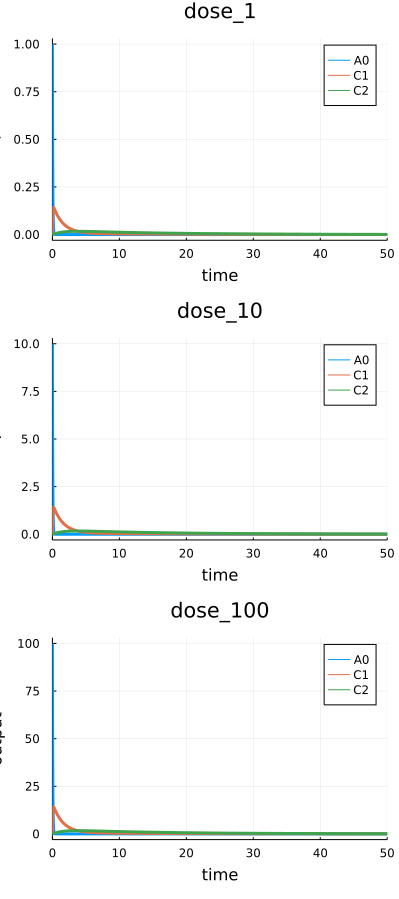
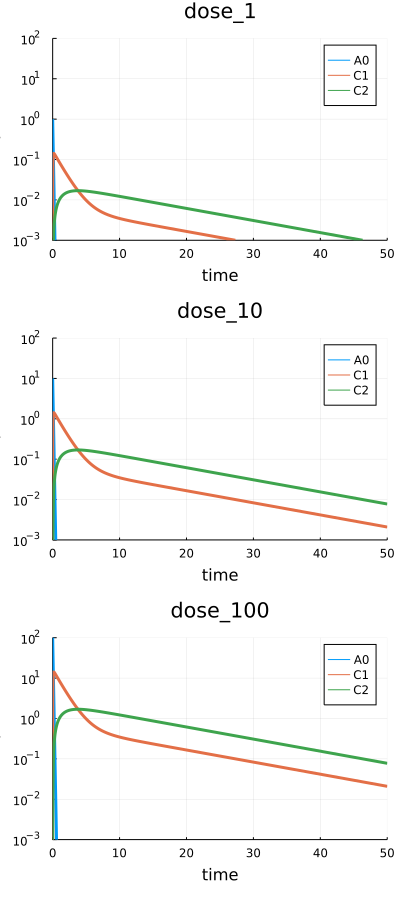
minor

diff --git a/docs/src/tutorial/sim.md b/docs/src/tutorial/sim.md
@@ -349,7 +349,7 @@ The results of multiple simulations can be visualized all together using `plot` 
 
 ```julia
 # plot everything
-plot(res_selected)
+plot(res_selected, yscale=:log10, ylims=(1e-3,1e2))
 ```
 
 ![fig07](./fig07.png)
@@ -368,11 +368,11 @@ CSV.write("res_selected_df.csv", res_selected_df)
 
 1. The typical workflow for simulation of modeling platforms in HetaCompiler.jl consist of the following steps: (1) loading Heta-based models into a `Platform` object; (2) creating and addition scenarios using `Scenario` constructor or from CSV tables; (3) run `sim` method for the whole platform or selected scenarios; (4) display results using `plot` or transform into `DataFrame`.
 
-1. `Model` and `Scenario` objects are "unmutable". This means a user cannot update their parts directly. User can just create new Scenario and use `add _scenarios!` method using the same identifiers. This replaces the previous corresponding scenarios.
+1. `Model` and `Scenario` objects are "unmutable". This means a user cannot update their parts directly. User can just create new Scenario and use `add_scenarios!` method using the same identifiers. This replaces the previous scenarios with selected ids.
 
 1. To update a model structure one should include changes into source Heta-based model and repeat all the steps.
 
-1. In many cased the chain Julia syntax can be useful. The following code creates the default scenario, simulate and plot one line.
+1. In many cased the chain Julia syntax can be useful. The following code creates the default scenario, simulate and plot with one line.
     ```julia
     Scenario(models(p)[:nameless], tspan = (0,100)) |> sim |> plot
     ```
